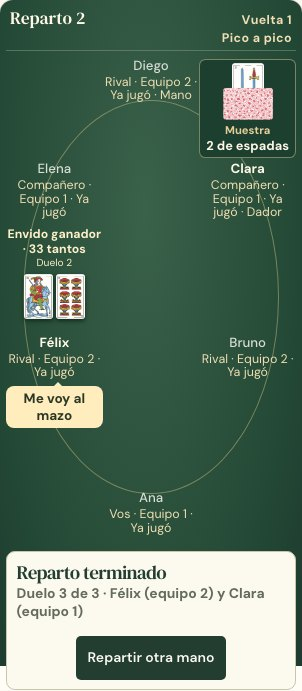
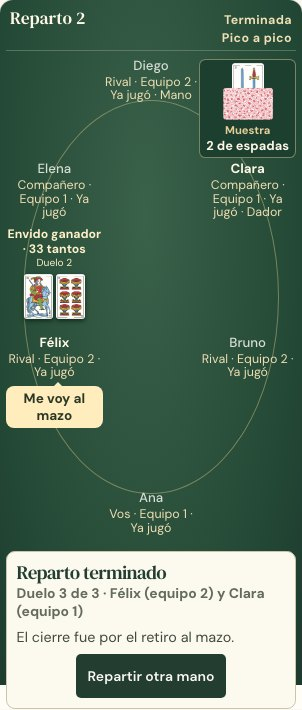
Usar la fase y el lance normalizados en el tapete integrado

diff --git a/src/components/jugar/Tercetos.tsx b/src/components/jugar/Tercetos.tsx
@@ -31,11 +31,11 @@ const nombreDelLance = (lance: LanceTercetos) =>
 const motivoDelCierre = { vueltas: "las vueltas", rechazo: "el rechazo", envido: "el envido", flor: "la flor", mazo: "el retiro al mazo" };
 
 function palabra(mesa: Mesa, partida: PartidaTercetos) {
-  const { vista, lance, ganadorPartida } = partida;
+  const { vista, lance, contexto, ganadorPartida } = partida;
   const propio = mesa.asientos[mesa.miAsiento].equipo;
   const nombre = (a: number) => mesa.asientos[a].nombre;
-  if (ganadorPartida !== null) return ganadorPartida === propio ? "Tu equipo ganó el chico" : "El rival ganó el chico";
-  if (vista.estado === "terminado") return "Reparto terminado";
+  if (contexto.fase === "chico-terminado") return ganadorPartida === propio ? "Tu equipo ganó el chico" : "El rival ganó el chico";
+  if (contexto.fase === "reparto-cerrado") return "Reparto terminado";
   if (vista.porDeclararFlor != null) {
     return vista.porDeclararFlor === mesa.miAsiento ? "Te toca declarar" : `Declara ${nombre(vista.porDeclararFlor)}`;
   }
@@ -97,7 +97,7 @@ export function MesaDeTercetos({ mesa, partida: recibida, base, bloqueada: ocupa
   const rivales = esPico && lance.activos.map(a => `${mesa.asientos[a].nombre} (equipo ${mesa.asientos[a].equipo + 1})`).join(" y ");
   const jugando = vista.estado === "jugando" ? vista : null;
   const opciones = jugando?.legales.filter(tipo => tipo !== "carta") ?? [];
-  const esFin = partida.ganadorPartida !== null;
+  const esFin = partida.contexto.fase === "chico-terminado";
   const cerrados = historialLances.at(-1);
   const ultimoCobro = vista.cobros.at(-1) ?? cerrados?.cobros.at(-1);
   const esLanceActual = (l: LanceTercetos) => l.duelo === lance.duelo && l.tipo === lance.tipo;

diff --git a/src/components/jugar/Tablero.tsx b/src/components/jugar/Tablero.tsx
@@ -81,7 +81,7 @@ function estadoDelTurno(mesa: Mesa, partida: Partida, vista: VistaOnline) {
   const { resultado, pendiente, porDeclararFlor, turno, legales } = vista;
   const propio = mesa.asientos[mesa.miAsiento].equipo;
   if (resultado) {
-    const fin = partida.ganadorPartida !== null;
+    const fin = partida.contexto.fase === "chico-terminado";
     const victoria = resultado.equipo === propio;
     const motivos = { mazo: "el retiro al mazo", vueltas: "las vueltas", rechazo: "el rechazo", envido: "el envido", flor: "la flor" };
     return {
@@ -197,8 +197,8 @@ export function EnJuego({
   const voces = voz ? [voz] : vocesEnReposo(v);
   const pendientes = v.pendiente;
   const resultado = v.resultado;
-  const fin = partida.ganadorPartida !== null;
-  const { cerrada, vuelta, numeroVuelta, detalleVuelta, jugadaVisible } = vueltaEnMesa(v, mesa.asientos.length, nombre);
+  const fin = partida.contexto.fase === "chico-terminado";
+  const { cerrada, vuelta, numeroVuelta, detalleVuelta, jugadaVisible } = vueltaEnMesa(v, partida.lance.activos.length, nombre);
   const relato = voz
     ? { titulo: nombre(voz.asiento), indicacion: voz.texto }
     : { titulo: "Vuelta " + numeroVuelta, indicacion: detalleVuelta || jugadaVisible };

diff --git a/src/components/jugar/presentacion-vueltas.ts b/src/components/jugar/presentacion-vueltas.ts
@@ -31,7 +31,7 @@ function pasosNuevos(
       jugadas = [...jugadas, { asiento: accion.asiento, carta: accion.carta }];
       if (accion.asiento === vista.asiento) cartas = cartas.filter(c => c !== accion.carta);
     }
-    const completa = esCarta && jugadas.length === vista.equipoPorAsiento.length;
+    const completa = esCarta && jugadas.length === actual.lance.activos.length;
     if (completa) cerradas++;
     const ultimaAccion = i + 1 === vista.acciones.length;
     const acciones = vista.acciones.slice(0, i + 1);
